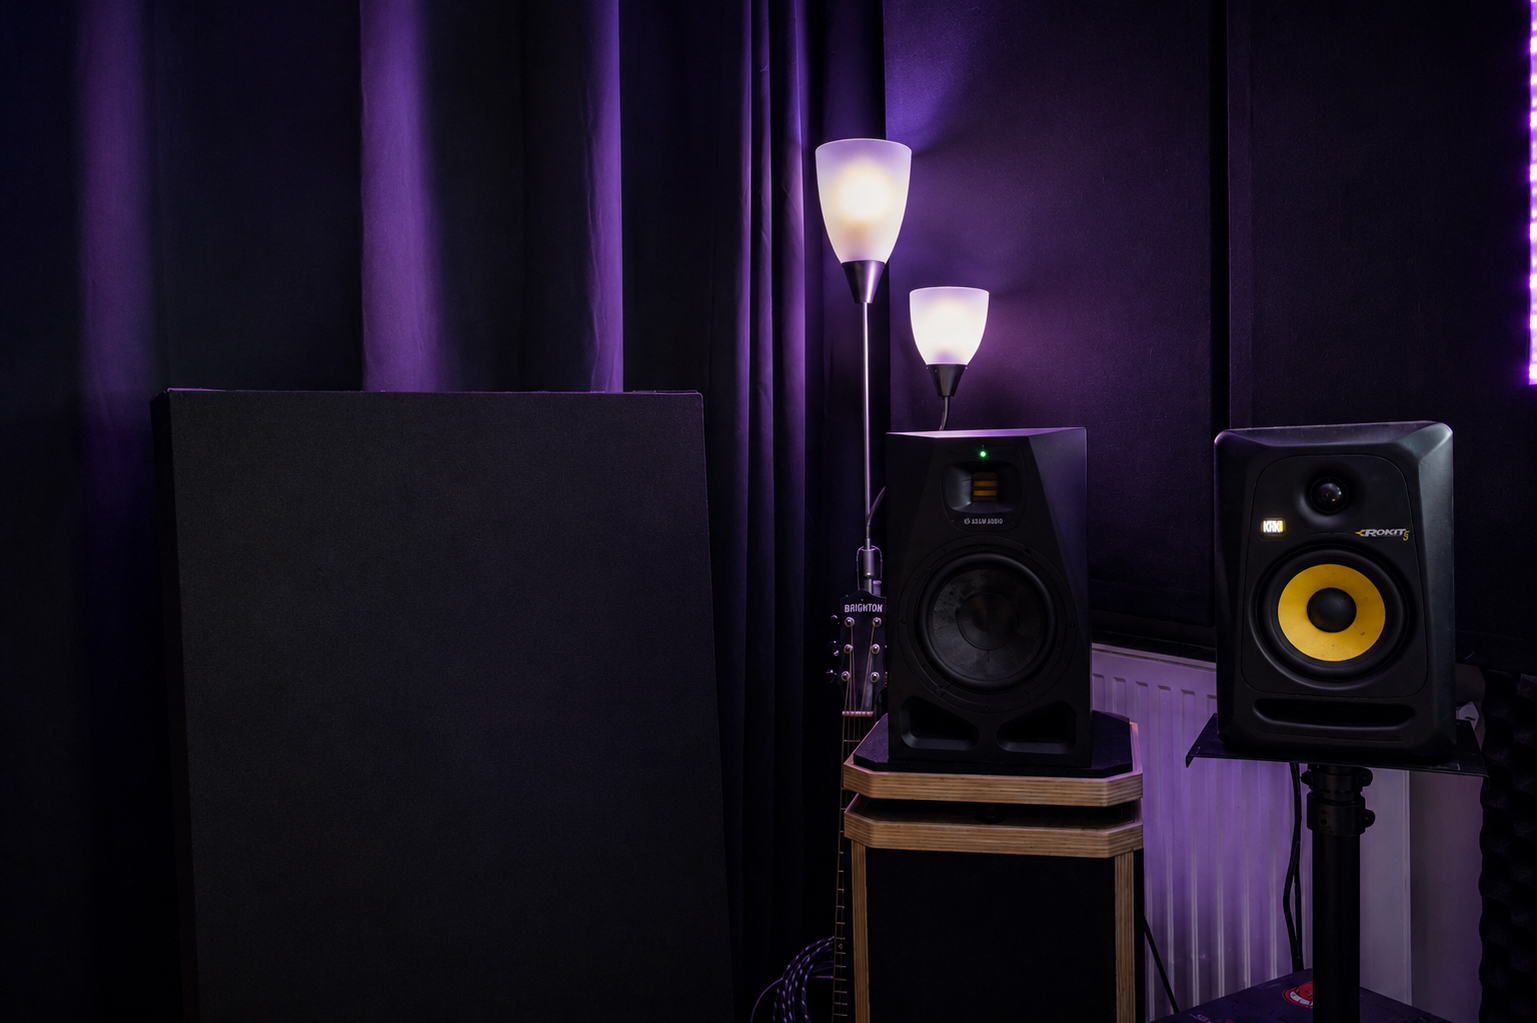
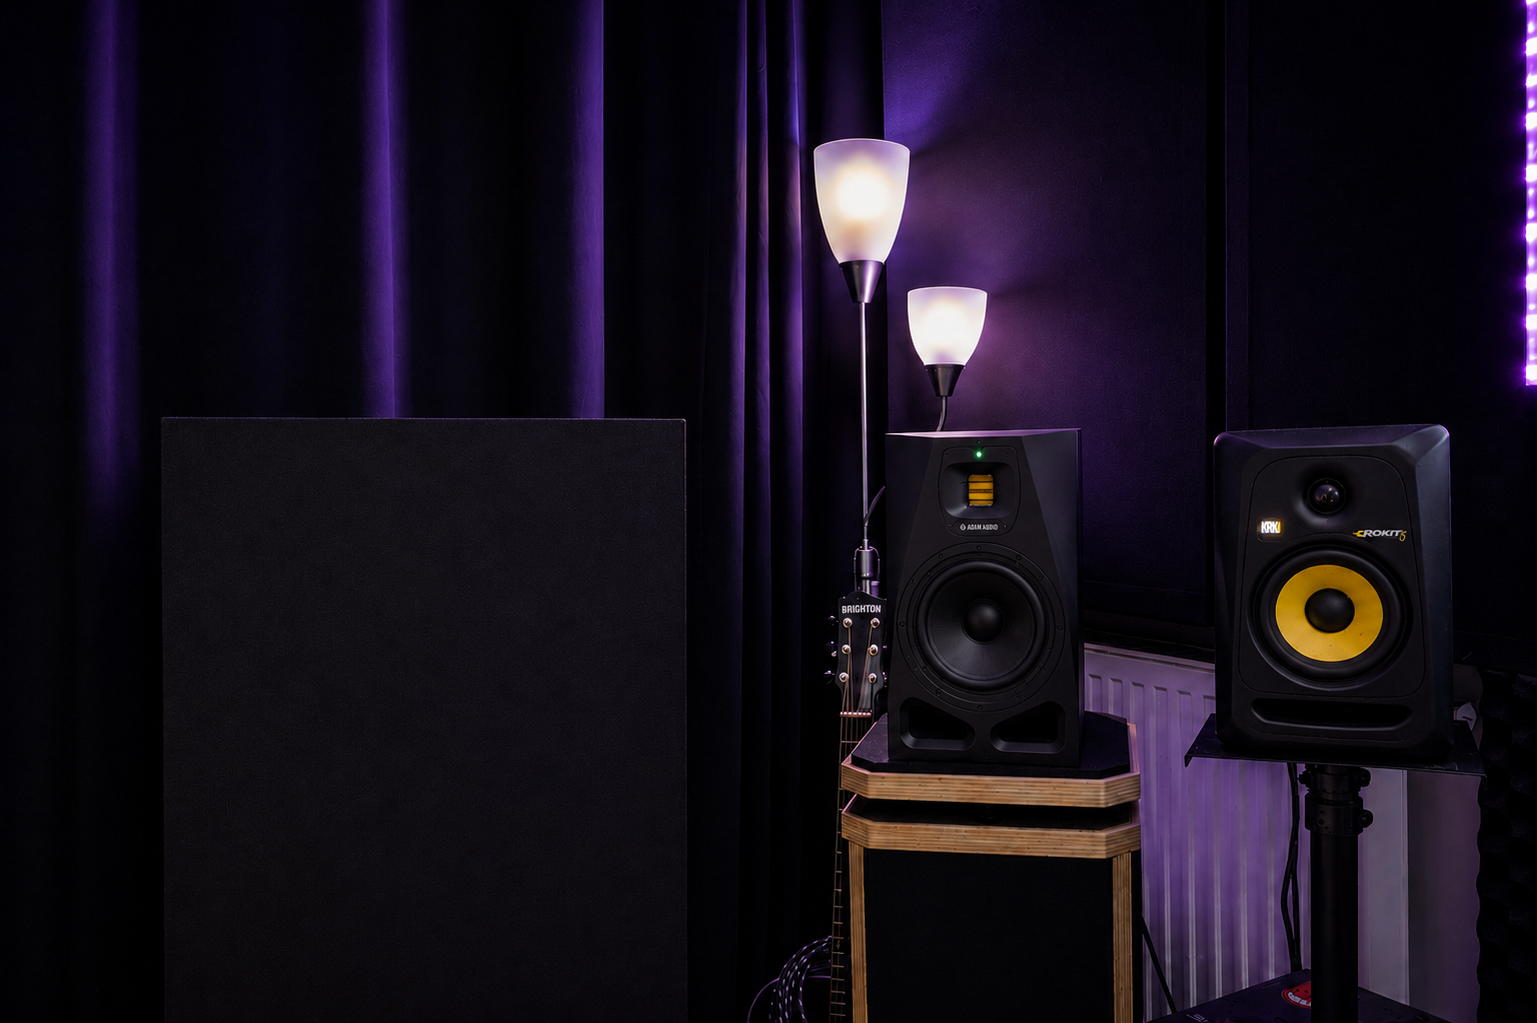
chore(web): refresh studio carousel photos

diff --git a/apps/web/src/components/ui/carousel/constants.ts b/apps/web/src/components/ui/carousel/constants.ts
@@ -13,20 +13,20 @@ const studioSlides: StudioSlide[] = [
         height: 1023,
     },
     {
-        src: "02_angle1.png",
+        src: "02_angle1.png?v=20260819",
         alt: "Premier angle du studio",
         width: 1537,
         height: 1023,
     },
     {
-        src: "03_angle2.png",
-        alt: "Deuxième angle du studio",
+        src: "03_fish-oeil1.png",
+        alt: "Première vue grand-angle du studio",
         width: 1535,
         height: 1024,
     },
     {
-        src: "04_fish-oeil1.png",
-        alt: "Première vue grand-angle du studio",
+        src: "04_angle2.png",
+        alt: "Deuxième angle du studio",
         width: 1535,
         height: 1024,
     },
